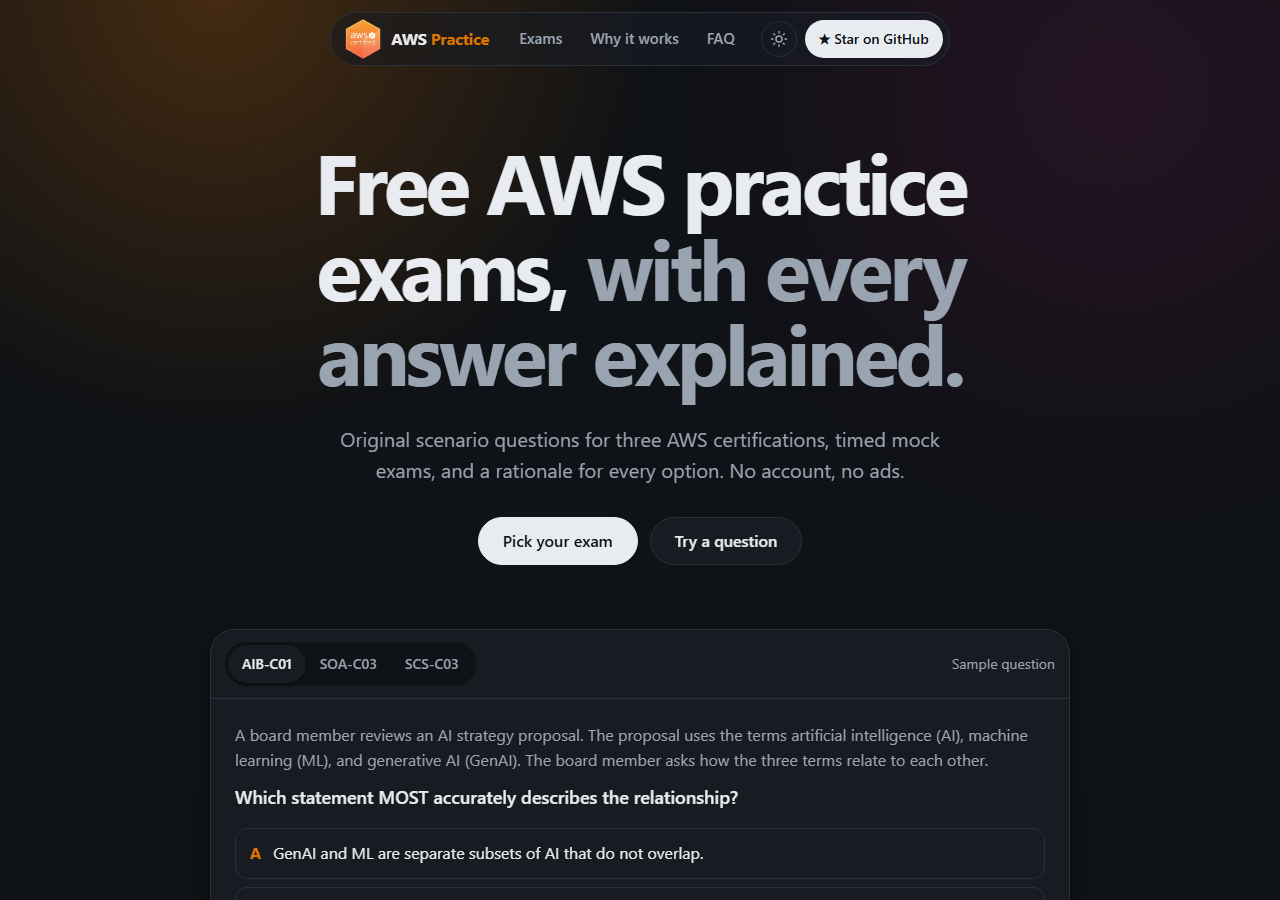
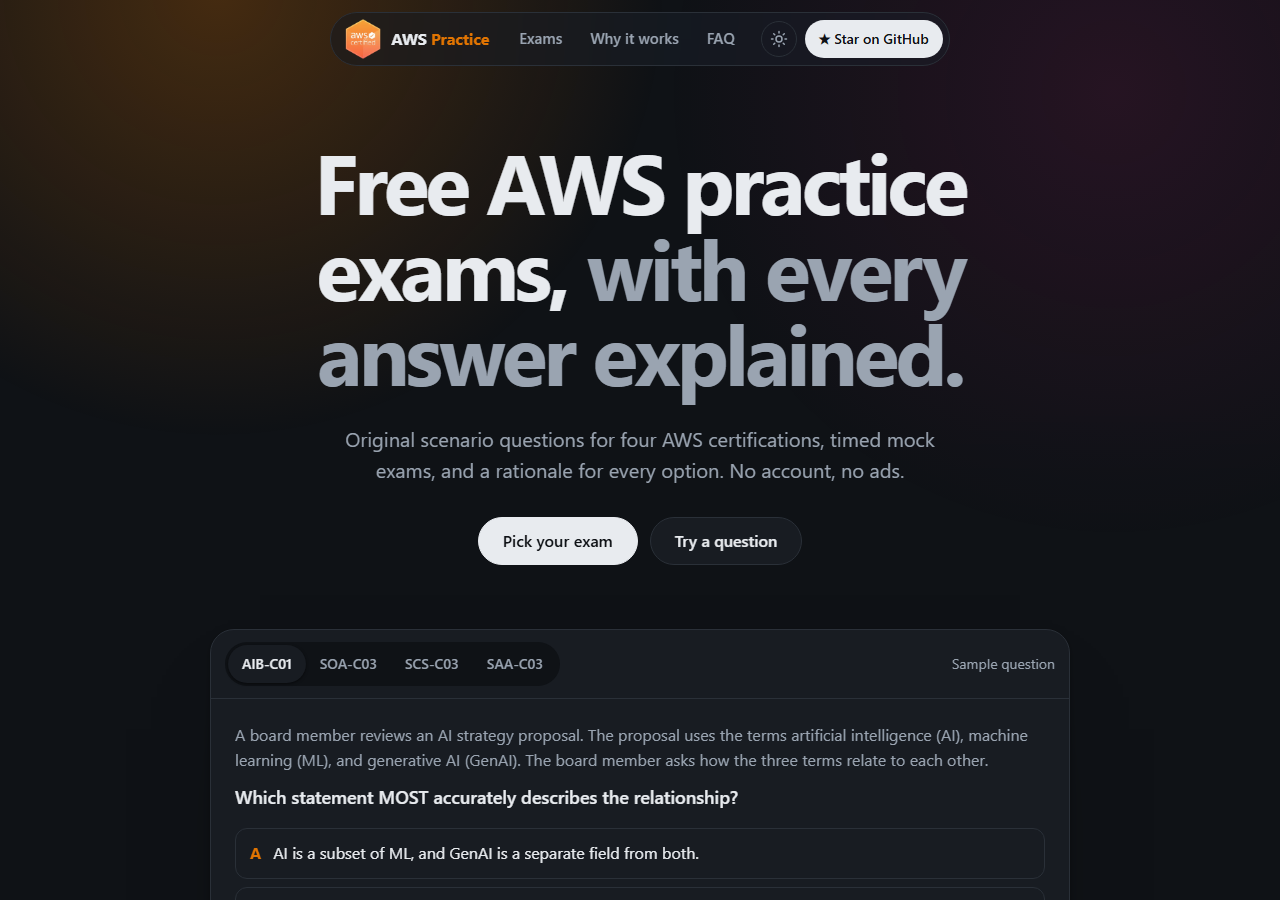
Add SAA-C03 to the home page

Changed region(s): [[0.25, 0.4667, 0.75, 0.4978], [0.2188, 0.9333, 0.5625, 0.9644], [0.375, 0.7156, 0.4375, 0.7467]]

diff --git a/index.html b/index.html
@@ -3,12 +3,12 @@
 <head>
 <meta charset="utf-8">
 <meta name="viewport" content="width=device-width, initial-scale=1">
-<title>Free AWS Practice Exams: AIB-C01, SOA-C03, SCS-C03 | 965 Questions</title>
-<meta name="description" content="Free AWS certification practice exams: 965 original scenario questions for AI Business Strategist (AIB-C01), CloudOps Engineer Associate (SOA-C03) and Security Specialty (SCS-C03). A rationale for every option, timed mock exams, no signup, no ads.">
+<title>Free AWS Practice Exams: AIB-C01, SOA-C03, SCS-C03, SAA-C03 | 1,165 Questions</title>
+<meta name="description" content="Free AWS certification practice exams: 1,165 original scenario questions for AI Business Strategist (AIB-C01), CloudOps Engineer Associate (SOA-C03), Security Specialty (SCS-C03) and Solutions Architect Associate (SAA-C03). A rationale for every option, timed mock exams, no signup, no ads.">
 <link rel="canonical" href="https://zghanw.github.io/aws-certified-practice-exams/">
 <meta property="og:type" content="website">
 <meta property="og:site_name" content="Free AWS Practice Exams">
-<meta property="og:title" content="Free AWS Practice Exams: 965 questions, 3 exams, $0">
+<meta property="og:title" content="Free AWS Practice Exams: 1,165 questions, 4 exams, $0">
 <meta property="og:description" content="Original scenario questions with a rationale for every option and timed mock exams. Open source. No signup, no ads.">
 <meta property="og:url" content="https://zghanw.github.io/aws-certified-practice-exams/">
 <meta property="og:image" content="https://zghanw.github.io/aws-certified-practice-exams/docs/social-preview.png">
@@ -27,12 +27,13 @@
 {"@type":"ItemList","name":"Free AWS certification practice exams","itemListElement":[
 {"@type":"ListItem","position":1,"name":"AWS Certified AI Business Strategist (AIB-C01) practice exam","url":"https://zghanw.github.io/aws-ai-business-strategist/"},
 {"@type":"ListItem","position":2,"name":"AWS Certified CloudOps Engineer - Associate (SOA-C03) practice exam","url":"https://zghanw.github.io/aws-cloudops-engineer-associate/"},
-{"@type":"ListItem","position":3,"name":"AWS Certified Security - Specialty (SCS-C03) practice exam","url":"https://zghanw.github.io/aws-security-specialty/"}]},
+{"@type":"ListItem","position":3,"name":"AWS Certified Security - Specialty (SCS-C03) practice exam","url":"https://zghanw.github.io/aws-security-specialty/"},
+{"@type":"ListItem","position":4,"name":"AWS Certified Solutions Architect - Associate (SAA-C03) practice exam","url":"https://zghanw.github.io/aws-solutions-architect-associate/"}]},
 {"@type":"FAQPage","mainEntity":[
 {"@type":"Question","name":"Are these AWS practice exams really free?","acceptedAnswer":{"@type":"Answer","text":"Yes. Every question, rationale and mock exam is free. There is no account, no ads and no paywall, and the code and questions are open source under the MIT license."}},
 {"@type":"Question","name":"Are these real exam questions or dumps?","acceptedAnswer":{"@type":"Answer","text":"No. Every question is original and written against the public AWS exam guides. None come from the real exam, paid courses or dumps."}},
-{"@type":"Question","name":"Which exam versions are covered?","acceptedAnswer":{"@type":"Answer","text":"AWS Certified AI Business Strategist AIB-C01 (beta format), AWS Certified CloudOps Engineer - Associate SOA-C03, and AWS Certified Security - Specialty SCS-C03."}},
-{"@type":"Question","name":"How close are the mock exams to the real exam?","acceptedAnswer":{"@type":"Answer","text":"Each mock exam uses the question count and time limit from the official exam guide: 85 questions in 170 minutes for AIB-C01 (beta), 65 in 130 minutes for SOA-C03, and 65 in 170 minutes for SCS-C03."}},
+{"@type":"Question","name":"Which exam versions are covered?","acceptedAnswer":{"@type":"Answer","text":"AWS Certified AI Business Strategist AIB-C01 (beta format), AWS Certified CloudOps Engineer - Associate SOA-C03, AWS Certified Security - Specialty SCS-C03, and AWS Certified Solutions Architect - Associate SAA-C03."}},
+{"@type":"Question","name":"How close are the mock exams to the real exam?","acceptedAnswer":{"@type":"Answer","text":"Each mock exam uses the question count and time limit from the official exam guide: 85 questions in 170 minutes for AIB-C01 (beta), 65 in 130 minutes for SOA-C03, 65 in 170 minutes for SCS-C03, and 65 in 130 minutes for SAA-C03."}},
 {"@type":"Question","name":"Is my progress saved?","acceptedAnswer":{"@type":"Answer","text":"Yes, in your own browser only. Your answers are never sent to a server, and clearing site data resets it."}},
 {"@type":"Question","name":"I found a wrong answer. How do I report it?","acceptedAnswer":{"@type":"Answer","text":"Open an issue on that exam's GitHub repository. Each site links to its repository in the header and footer."}}]}
 ]}
@@ -52,13 +53,13 @@
 <section class="hero">
   <div class="wash" aria-hidden="true"><i></i><i></i></div>
   <h1><span class="w" style="--i:1">Free</span> <span class="w" style="--i:2">AWS</span> <span class="w" style="--i:3">practice</span> <span class="w" style="--i:4">exams,</span> <span class="soft"><span class="w" style="--i:5">with</span> <span class="w" style="--i:6">every</span> <span class="w" style="--i:7">answer</span> <span class="w" style="--i:8">explained.</span></span></h1>
-  <p class="sub w" style="--i:10">Original scenario questions for three AWS certifications, timed mock exams, and a rationale for every option. No account, no ads.</p>
+  <p class="sub w" style="--i:10">Original scenario questions for four AWS certifications, timed mock exams, and a rationale for every option. No account, no ads.</p>
   <div class="cta w" style="--i:12"><a class="btn primary" href="#exams">Pick your exam</a><a class="btn" href="#try">Try a question</a></div>
   <div class="stage w" style="--i:14">
     <div class="demo" id="try">
       <div class="demo-bar">
         <div class="seg" role="group" aria-label="Sample question from">
-          <button type="button" data-k="aib" aria-pressed="true">AIB-C01</button><button type="button" data-k="soa" aria-pressed="false">SOA-C03</button><button type="button" data-k="scs" aria-pressed="false">SCS-C03</button>
+          <button type="button" data-k="aib" aria-pressed="true">AIB-C01</button><button type="button" data-k="soa" aria-pressed="false">SOA-C03</button><button type="button" data-k="scs" aria-pressed="false">SCS-C03</button><button type="button" data-k="saa" aria-pressed="false">SAA-C03</button>
         </div>
         <span>Sample question</span>
       </div>
@@ -68,7 +69,7 @@
 </section>
 
 <section id="exams" class="wrap">
-  <h2 class="rv">Three exams. <span>One way to practice.</span></h2>
+  <h2 class="rv">Four exams. <span>One way to practice.</span></h2>
   <div class="exams">
     <a class="exam rv" style="--tint:#e0218a;--go:light-dark(#c20573,#e4609b);--i:0" data-k="aib" data-n="340" href="https://zghanw.github.io/aws-ai-business-strategist/">
       <img src="docs/logos/aib-c01.png" alt="" width="96" height="111" loading="lazy">
@@ -94,14 +95,22 @@
       <ul><li><b>300</b> questions</li><li><b>6</b> domains</li><li><b>65</b>-question mock, 170 min</li></ul>
       <span class="go">Start practicing <i>→</i></span>
     </a>
+    <a class="exam rv" style="--tint:#2f6bff;--go:light-dark(#2f5bea,#6b8cff);--i:3" data-k="saa" data-n="200" href="https://zghanw.github.io/aws-solutions-architect-associate/">
+      <img src="docs/logos/saa-c03.png" alt="" width="96" height="110" loading="lazy">
+      <p class="code">SAA-C03</p>
+      <h3>AWS Certified Solutions Architect - Associate</h3>
+      <p>Design on AWS: secure access and data, resilient and highly available systems, high-performing storage, compute, and networks, and cost-optimized architectures.</p>
+      <ul><li><b>200</b> questions</li><li><b>4</b> domains</li><li><b>65</b>-question mock, 130 min</li></ul>
+      <span class="go">Start practicing <i>→</i></span>
+    </a>
   </div>
 </section>
 
 <section class="wrap">
   <dl class="stats">
-    <div class="rv" style="--i:0"><dt data-n="965">965</dt><dd>original questions</dd></div>
-    <div class="rv" style="--i:1"><dt data-n="15">15</dt><dd>exam domains covered</dd></div>
-    <div class="rv" style="--i:2"><dt data-n="3">3</dt><dd>timed mock exams</dd></div>
+    <div class="rv" style="--i:0"><dt data-n="1165">1,165</dt><dd>original questions</dd></div>
+    <div class="rv" style="--i:1"><dt data-n="19">19</dt><dd>exam domains covered</dd></div>
+    <div class="rv" style="--i:2"><dt data-n="4">4</dt><dd>timed mock exams</dd></div>
     <div class="rv" style="--i:3"><dt>$0</dt><dd>no signup, no ads</dd></div>
   </dl>
 </section>
@@ -138,8 +147,8 @@
   <h2 class="rv">Questions <span>people ask.</span></h2>
   <details><summary>Are these AWS practice exams really free?</summary><p>Yes. Every question, rationale and mock exam is free. There is no account, no ads and no paywall, and the code and questions are open source under the MIT license.</p></details>
   <details><summary>Are these real exam questions or dumps?</summary><p>No. Every question is original and written against the public AWS exam guides. None come from the real exam, paid courses or dumps.</p></details>
-  <details><summary>Which exam versions are covered?</summary><p>AWS Certified AI Business Strategist AIB-C01 (beta format), AWS Certified CloudOps Engineer - Associate SOA-C03, and AWS Certified Security - Specialty SCS-C03.</p></details>
-  <details><summary>How close are the mock exams to the real exam?</summary><p>Each mock exam uses the question count and time limit from the official exam guide: 85 questions in 170 minutes for AIB-C01 (beta), 65 in 130 minutes for SOA-C03, and 65 in 170 minutes for SCS-C03.</p></details>
+  <details><summary>Which exam versions are covered?</summary><p>AWS Certified AI Business Strategist AIB-C01 (beta format), AWS Certified CloudOps Engineer - Associate SOA-C03, AWS Certified Security - Specialty SCS-C03, and AWS Certified Solutions Architect - Associate SAA-C03.</p></details>
+  <details><summary>How close are the mock exams to the real exam?</summary><p>Each mock exam uses the question count and time limit from the official exam guide: 85 questions in 170 minutes for AIB-C01 (beta), 65 in 130 minutes for SOA-C03, 65 in 170 minutes for SCS-C03, and 65 in 130 minutes for SAA-C03.</p></details>
   <details><summary>Is my progress saved?</summary><p>Yes, in your own browser only. Your answers are never sent to a server, and clearing site data resets it.</p></details>
   <details><summary>I found a wrong answer. How do I report it?</summary><p>Open an issue on that exam's GitHub repository. Each site links to its repository in the header and footer.</p></details>
 </section>
@@ -147,7 +156,7 @@
 <footer>
   <div class="wrap">
     <p>Unofficial study aid. Not affiliated with or endorsed by AWS. Questions are original, written against the public exam guides.</p>
-    <p><a href="https://zghanw.github.io/aws-ai-business-strategist/">AIB-C01</a> · <a href="https://zghanw.github.io/aws-cloudops-engineer-associate/">SOA-C03</a> · <a href="https://zghanw.github.io/aws-security-specialty/">SCS-C03</a> · <a href="https://github.com/zghanw/aws-certified-practice-exams" target="_blank" rel="noopener">GitHub</a></p>
+    <p><a href="https://zghanw.github.io/aws-ai-business-strategist/">AIB-C01</a> · <a href="https://zghanw.github.io/aws-cloudops-engineer-associate/">SOA-C03</a> · <a href="https://zghanw.github.io/aws-security-specialty/">SCS-C03</a> · <a href="https://zghanw.github.io/aws-solutions-architect-associate/">SAA-C03</a> · <a href="https://github.com/zghanw/aws-certified-practice-exams" target="_blank" rel="noopener">GitHub</a></p>
   </div>
   <p class="mark" aria-hidden="true">aws practice</p>
 </footer>

diff --git a/questions.js b/questions.js
@@ -50,5 +50,22 @@ window.QUIZ = [
    "This covers every account, but the security team would work in the management account, which the company does not allow.",
    "A delegated administrator in one Region manages GuardDuty only in that Region, so the other active Regions stay unprotected."
   ]
+ },
+ {
+  "k": "saa",
+  "q": "A company uses one AWS account for development and another AWS account for production. Members of the operations team sign in to the development account as IAM users. The team must be able to start, stop, and reboot Amazon EC2 instances in the production account. The company does not want team members to keep a second set of long-term credentials for the production account.\n\nWhat should a solutions architect do to meet these requirements?",
+  "o": [
+   "In the production account, add an IAM role with EC2 permissions and a trust policy for the development account. Allow the team to assume the role.",
+   "In the development account, add an IAM role with EC2 permissions that name the production instance ARNs. Attach the role to the team's IAM group.",
+   "Create IAM users for the team in the production account with EC2 permissions. Store each user's access key in AWS Secrets Manager in the development account.",
+   "Share the production EC2 instances with the development account by using AWS Resource Access Manager (AWS RAM). Grant the team EC2 permissions in the development account."
+  ],
+  "a": 0,
+  "r": [
+   "A role in the production account holds the EC2 permissions, and its trust policy lets principals from the development account assume it. Team members switch to the role and get temporary credentials, so they keep only their existing sign-in.",
+   "A policy in the development account cannot grant access to resources in another account on its own. The production account must trust the caller, which needs a role or a resource policy in the production account.",
+   "This creates a second set of long-term credentials for each team member, which the company wants to avoid. Storing the keys in Secrets Manager does not change that they are long-term keys.",
+   "AWS RAM shares resources such as subnets and transit gateways. It does not share EC2 instances, so the team would still have no access to the production instances."
+  ]
  }
 ];

diff --git a/style.css b/style.css
@@ -112,7 +112,7 @@ h2 span { display: block; color: var(--muted); }
 .js .rv { opacity: 0; transform: translateY(24px); }
 .js .rv.in { opacity: 1; transform: none; transition: opacity .7s var(--ease), transform .7s var(--ease); transition-delay: calc(var(--i, 0) * 80ms); }
 
-.exams { display: grid; grid-template-columns: repeat(3, 1fr); gap: 16px; }
+.exams { display: grid; grid-template-columns: repeat(2, 1fr); gap: 16px; }
 .exam { position: relative; display: flex; flex-direction: column; gap: 8px; padding: 28px; overflow: hidden; border: 1px solid var(--line); border-radius: 24px; background: var(--card); color: var(--ink); text-decoration: none; }
 /* Each exam is tinted with its own badge colour. */
 .exam::before { content: ""; position: absolute; inset: 0; background: radial-gradient(70% 55% at 15% 0%, color-mix(in srgb, var(--tint) 20%, transparent), transparent); pointer-events: none; }

diff --git a/app.js b/app.js
@@ -74,7 +74,7 @@ if (motion) {
     const to = +dt.dataset.n, t0 = performance.now();
     const step = t => {
       const p = Math.min(1, (t - t0) / 1200);
-      dt.textContent = Math.round(to * (1 - (1 - p) ** 4));
+      dt.textContent = Math.round(to * (1 - (1 - p) ** 4)).toLocaleString('en-US');
       if (p < 1) requestAnimationFrame(step);
     };
     requestAnimationFrame(step);

diff --git a/README.md b/README.md
@@ -5,9 +5,9 @@
 # AWS Certified Practice Exams
 
 Free practice questions and timed mock exams for **AWS certification** exams.<br>
-965 original scenario questions across 3 exams, a rationale for every option, no signup, no ads.
+1,165 original scenario questions across 4 exams, a rationale for every option, no signup, no ads.
 
-**[Start practicing](https://zghanw.github.io/aws-certified-practice-exams/)** · [AIB-C01](https://zghanw.github.io/aws-ai-business-strategist/) · [SOA-C03](https://zghanw.github.io/aws-cloudops-engineer-associate/) · [SCS-C03](https://zghanw.github.io/aws-security-specialty/)
+**[Start practicing](https://zghanw.github.io/aws-certified-practice-exams/)** · [AIB-C01](https://zghanw.github.io/aws-ai-business-strategist/) · [SOA-C03](https://zghanw.github.io/aws-cloudops-engineer-associate/) · [SCS-C03](https://zghanw.github.io/aws-security-specialty/) · [SAA-C03](https://zghanw.github.io/aws-solutions-architect-associate/)
 
 <a href="https://zghanw.github.io/aws-certified-practice-exams/"><img alt="Live site" src="https://img.shields.io/website?url=https%3A%2F%2Fzghanw.github.io%2Faws-certified-practice-exams%2F&label=live%20site&up_message=online&down_message=offline"></a>
 <a href="https://github.com/zghanw/aws-certified-practice-exams/commits/main"><img alt="Last commit" src="https://img.shields.io/github/last-commit/zghanw/aws-certified-practice-exams"></a>
@@ -15,7 +15,7 @@ Free practice questions and timed mock exams for **AWS certification** exams.<br
 
 <br><br>
 
-<img alt="The home page, with a live sample question and the three free practice exams" src="docs/screenshots/home.png" width="760">
+<img alt="The home page, with a live sample question and the four free practice exams" src="docs/screenshots/home.png" width="760">
 
 </div>
 
@@ -30,6 +30,7 @@ Each exam has its own practice site and its own repository. This is the home pag
 | AWS Certified AI Business Strategist (AIB-C01) | 340 | 85 questions, 170 min | [Start](https://zghanw.github.io/aws-ai-business-strategist/) | [Repo](https://github.com/zghanw/aws-ai-business-strategist) |
 | AWS Certified CloudOps Engineer - Associate (SOA-C03) | 325 | 65 questions, 130 min | [Start](https://zghanw.github.io/aws-cloudops-engineer-associate/) | [Repo](https://github.com/zghanw/aws-cloudops-engineer-associate) |
 | AWS Certified Security - Specialty (SCS-C03) | 300 | 65 questions, 170 min | [Start](https://zghanw.github.io/aws-security-specialty/) | [Repo](https://github.com/zghanw/aws-security-specialty) |
+| AWS Certified Solutions Architect - Associate (SAA-C03) | 200 | 65 questions, 130 min | [Start](https://zghanw.github.io/aws-solutions-architect-associate/) | [Repo](https://github.com/zghanw/aws-solutions-architect-associate) |
 
 - Practice one domain at a time. After each answer, every option shows why it's right or wrong.
 - Take a mock exam with the question count and time limit from the official exam guide.
